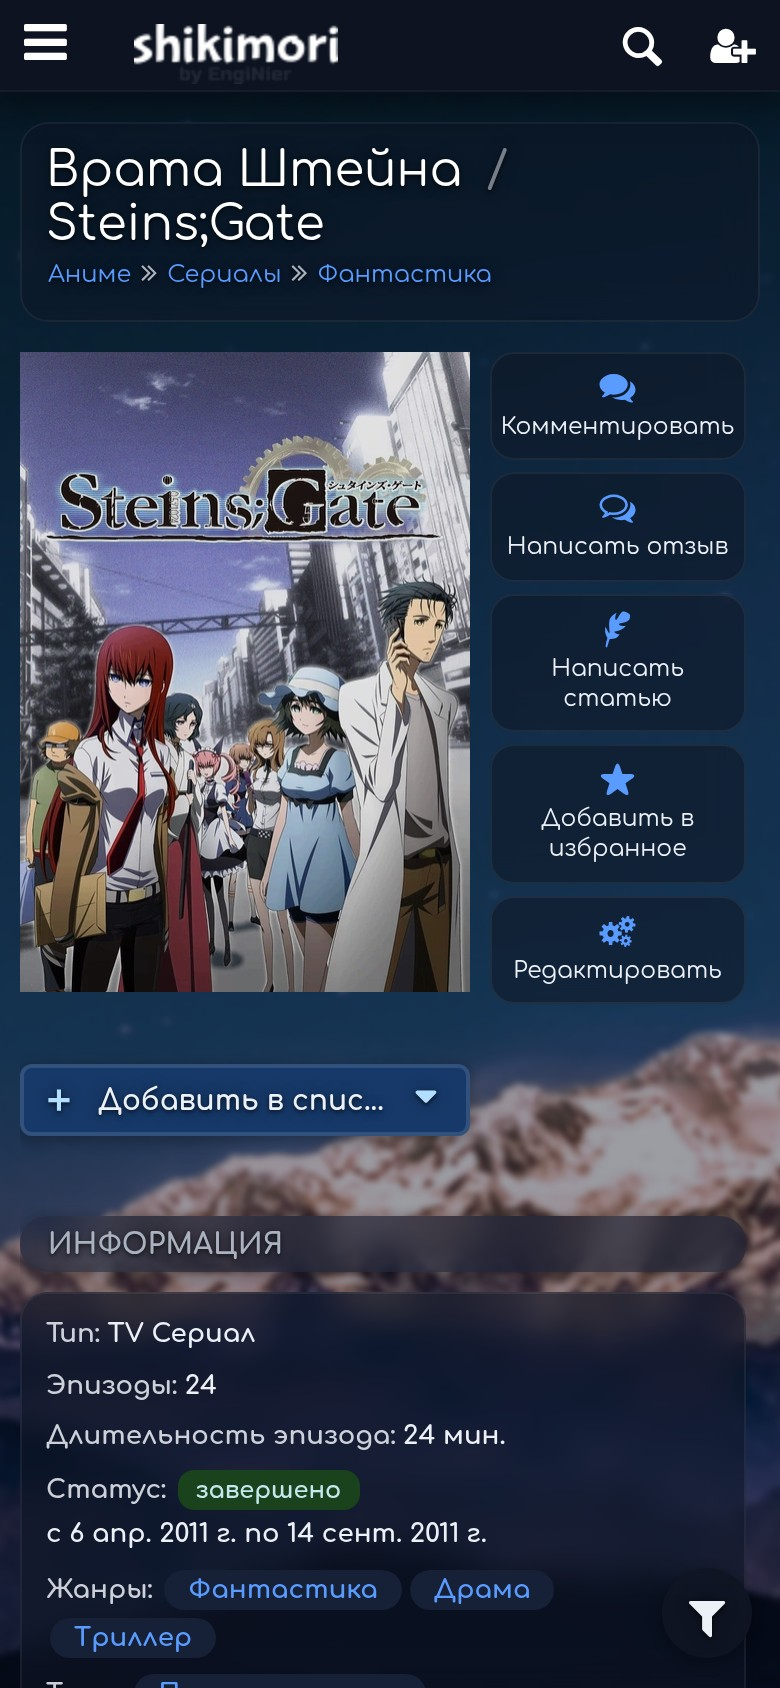
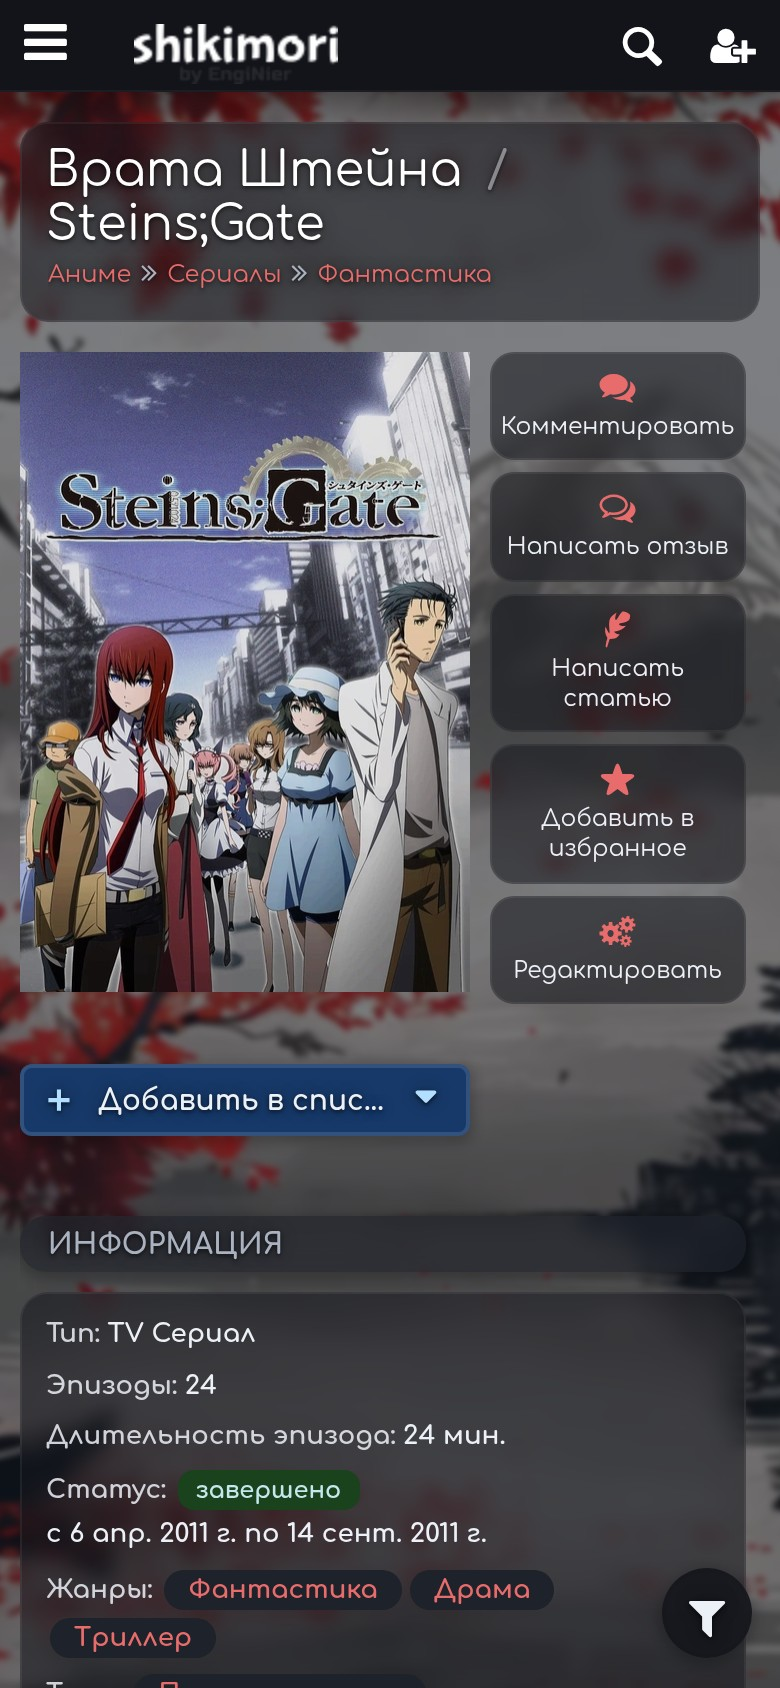
docs: скриншоты README в теме по умолчанию, сравнение с синим примером
Основные кадры (главная, аниме, каталог, профиль, телефон) сняты с алым акцентом и стандартными обоями. Синий вариант оставлен только как сопоставление на одной странице в docs/compare.jpg рядом с инструкцией по цветам.

diff --git a/README.md b/README.md
@@ -80,7 +80,7 @@
 
 ### Пример: синий акцент и другие обои
 
-Этот блок вставьте **после** строк `@import`. По умолчанию тема остаётся алой: синий вариант нужен как образец (скриншоты выше сняты с ним).
+Этот блок вставьте **после** строк `@import`. Скриншоты выше — тема по умолчанию (алый акцент и стандартные обои). Ниже та же страница: слева как есть, справа — после этого примера.
 
 ```css
 @media screen and (min-width: 1px) {
@@ -107,7 +107,7 @@
 }
 ```
 
-![Пример: синий акцент и свои обои](docs/example_override.jpg)
+![Сравнение: тема по умолчанию и пример с синим акцентом](docs/compare.jpg)
 
 В ссылках на картинки не должно быть символа `@`: Шикимори его вырезает. Обои из примера — [Kanchenjunga South Peak](https://commons.wikimedia.org/wiki/File:Kanchenjunga_South_Peak_%28Unsplash%29.jpg) (Mukesh Jain, Unsplash, CC0), файлы `bg_blue.webp` и `bg_blue_m.webp` лежат в репозитории.
 

diff --git a/docs/ARCHITECTURE.md b/docs/ARCHITECTURE.md
@@ -61,7 +61,7 @@ flowchart LR
 | `README.md` | для пользователей: установка, как сменить цвета и обои, скриншоты |
 | `bg.webp`, `bg_m.webp` | обои по умолчанию (алый вариант): пк (около 750 КБ) и телефон (900×1440, около 180 КБ) |
 | `bg_blue.webp`, `bg_blue_m.webp` | обои для примера с синим акцентом в README (CC0, Kanchenjunga South Peak) |
-| `docs/screenshot.jpg`, `docs/home.jpg`, `docs/catalog.jpg`, `docs/profile.jpg`, `docs/phone.jpg`, `docs/example_override.jpg` | скриншоты для README (синий пример) |
+| `docs/screenshot.jpg`, `docs/home.jpg`, `docs/catalog.jpg`, `docs/profile.jpg`, `docs/phone.jpg`, `docs/compare.jpg` | скриншоты для README (тема по умолчанию; compare.jpg — рядом алый и синий пример) |
 | `docs/ARCHITECTURE.md` | этот документ |
 | `AGENTS.md` | короткая навигация и жёсткие правила для правок (для ai-ассистентов и людей) |
 
